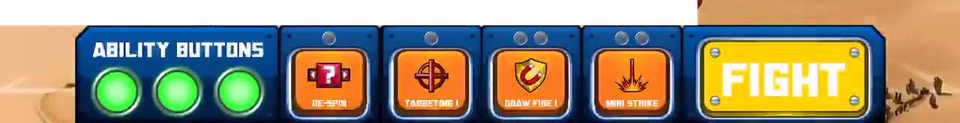
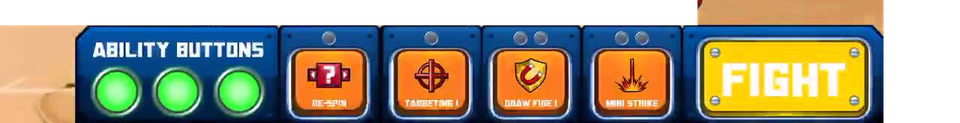
feat: bind the real gold button - rexButton on the extracted sprite
- extract fight_button.png (76x132) from the authentic screenshot by warm-gold
  color classification; matching transparent hole punched in the bottom band
- wire phaser3-rex-plugins (1.80.20) rexButton behavior: pixel-true hit area
  on the actual art, click debounce, press feedback (scale 0.95 on down)
- replaces the previous invisible rectangle hit-area (top of the baked button
  was not clickable); label/glow overlay states unchanged
- E2E verified with real mouse clicks on the button: roll then fight both fire

Changed region(s): [[0.9062, 0.0, 1.0, 1.0]]

diff --git a/src/ui/scenes/BattleScene.ts b/src/ui/scenes/BattleScene.ts
@@ -1,4 +1,5 @@
 import Phaser from 'phaser';
+import Button from 'phaser3-rex-plugins/plugins/button.js';
 
 import arenaUrl from '../assets/arena.png';
 import { createBattle } from '../../engine/combat/engine';
@@ -48,12 +49,13 @@ const PANEL_TOP = HEIGHT - PANEL_H;
 const TRAY_X0 = 400;
 const TRAY_STEP = 52;
 const TRAY_Y = 485;
-// Real gold action button (baked into the band, x 887..959): label on the
-// upper face, the baked caption stays visible at the bottom.
-const ACTION_X = 923;
-const ACTION_Y = 495;
-const ACTION_BTN_W = 140;
-const ACTION_BTN_H = 64;
+// Real gold action button (extracted standalone from the screenshot,
+// 76x132): the sprite IS the button (rexButton behavior), label on the
+// upper face, baked caption stays visible at the bottom.
+const ACTION_X = 921;
+const ACTION_Y = 472;
+const ACTION_GLOW_W = 92;
+const ACTION_GLOW_H = 140;
 
 type ActionState = 'roll' | 'fight' | 'restart' | 'hidden';
 
@@ -69,10 +71,8 @@ export class BattleScene extends Phaser.Scene {
   private faces!: Record<Side, readonly DieFace[]>;
   private roundText!: Phaser.GameObjects.Text;
   private statusText!: Phaser.GameObjects.Text;
-  private actionButton!: Phaser.GameObjects.Container;
   private actionLabel!: Phaser.GameObjects.Text;
-  private actionState: ActionState = 'hidden';
-  private pulseTween: Phaser.Tweens.Tween | null = null;
+  private actionState: ActionState = 'hidden';  private pulseTween: Phaser.Tweens.Tween | null = null;
   private busy = false;
   /** Armor absorbed by a side this hit; shown when the shell actually lands. */
   private pendingAbsorb: Partial<Record<Side, number>> = {};
@@ -80,6 +80,9 @@ export class BattleScene extends Phaser.Scene {
   private trayBadges!: Record<Side, Phaser.GameObjects.Image>;
   private trayTexts!: Record<Side, Phaser.GameObjects.Text>;
   private actionGlow!: Phaser.GameObjects.Graphics;
+  /** The real gold button sprite + its rexButton click behavior. */
+  private actionImage!: Phaser.GameObjects.Image;
+  private actionBtn!: Button;
 
   constructor() {
     super('battle');
@@ -245,26 +248,32 @@ export class BattleScene extends Phaser.Scene {
       enemy: this.trayText('enemy'),
     };
 
-    // Morphing action control ON the real gold button (baked in the band):
-    // label on the upper face for ROLL/RESTART, pulsing glow for FIGHT.
-    this.actionGlow = this.add.graphics();
+    // The real gold button as an interactive sprite bound by rexButton
+    // (phaser3-rex-plugins): pixel-true hit area on the actual art.
+    this.actionImage = this.add.image(ACTION_X, ACTION_Y, HUD_KEYS.fightButton).setDepth(10);
+    this.actionImage.setInteractive({ useHandCursor: true });
+    this.actionBtn = new Button(this.actionImage, { clickInterval: 250 });
+    this.actionBtn.on('click', () => this.onActionClick());
+    // Press feedback on the sprite (rexButton owns the click semantics).
+    this.actionImage.on('pointerdown', () => this.actionImage.setScale(0.95));
+    const release = (): void => {
+      this.actionImage.setScale(1);
+    };
+    this.actionImage.on('pointerup', release);
+    this.actionImage.on('pointerout', release);
+
+    // Control state overlaid on the button: label on the upper face for
+    // ROLL/RESTART, pulsing glow ring for FIGHT.
+    this.actionGlow = this.add.graphics().setDepth(11);
     this.actionLabel = this.add
-      .text(0, -14, '', {
+      .text(ACTION_X, ACTION_Y - 42, '', {
         fontFamily: FONT,
-        fontSize: '17px',
+        fontSize: '15px',
         color: '#3a2a00',
         fontStyle: 'bold',
       })
-      .setOrigin(0.5);
-    this.actionButton = this.add.container(ACTION_X, ACTION_Y, [this.actionGlow, this.actionLabel]);
-    this.actionButton.setDepth(10);
-    const hit = new Phaser.Geom.Rectangle(-ACTION_BTN_W / 2, -ACTION_BTN_H / 2, ACTION_BTN_W, ACTION_BTN_H);
-    this.actionButton.setInteractive(
-      hit,
-      Phaser.Geom.Rectangle.Contains,
-    );
-    this.actionButton.input!.cursor = 'pointer';
-    this.actionButton.on('pointerdown', () => this.onActionClick());
+      .setOrigin(0.5)
+      .setDepth(12);
   }
 
   private trayText(side: Side): Phaser.GameObjects.Text {
@@ -856,7 +865,7 @@ export class BattleScene extends Phaser.Scene {
     this.actionState = next;
     this.pulseTween?.stop();
     this.pulseTween = null;
-    this.actionButton.setVisible(next !== 'hidden');
+    this.actionImage.setAlpha(next === 'hidden' ? 0.55 : 1);
     this.actionGlow.clear().setAlpha(1);
     this.actionLabel.setText('');
 
@@ -865,14 +874,14 @@ export class BattleScene extends Phaser.Scene {
         this.actionLabel.setText('ROLL').setColor('#3a2a00');
         break;
       case 'fight':
-        // Glow ring over the real button; no label (baked caption below).
+        // Glow ring around the real button; no label (baked caption below).
         this.actionGlow.lineStyle(3, 0xfff3c0, 0.95);
         this.actionGlow.strokeRoundedRect(
-          -ACTION_BTN_W / 2,
-          -ACTION_BTN_H / 2,
-          ACTION_BTN_W,
-          ACTION_BTN_H,
-          16,
+          ACTION_X - ACTION_GLOW_W / 2,
+          ACTION_Y - ACTION_GLOW_H / 2,
+          ACTION_GLOW_W,
+          ACTION_GLOW_H,
+          18,
         );
         this.pulseTween = this.tweens.add({
           targets: this.actionGlow,

diff --git a/src/ui/hudAssets.ts b/src/ui/hudAssets.ts
@@ -23,6 +23,7 @@ import apBeamUrl from './assets/hud/ionstrikerevised/4.png';
 import titleArtUrl from './assets/hud/titlescreen/0.png';
 import refTopUrl from './assets/hud/ref/top.png';
 import refBottomUrl from './assets/hud/ref/bottom.png';
+import fightButtonUrl from './assets/hud/ref/fight_button.png';
 
 import { DIE_FACE_TYPE } from '../engine/types';
 import type { DieFaceType } from '../engine/types';
@@ -60,6 +61,8 @@ export const HUD_KEYS = {
   /** Real HUD bands cropped from the authentic gameplay screenshot. */
   refTop: 'hud-ref-top',
   refBottom: 'hud-ref-bottom',
+  /** The gold action button extracted standalone (interactive sprite). */
+  fightButton: 'hud-ref-fight-button',
 } as const;
 
 /** Texture key for a die-face badge background (null = vector fallback). */
@@ -105,4 +108,5 @@ export function loadHudTextures(scene: Phaser.Scene): void {
   scene.load.image(HUD_KEYS.titleArt, titleArtUrl);
   scene.load.image(HUD_KEYS.refTop, refTopUrl);
   scene.load.image(HUD_KEYS.refBottom, refBottomUrl);
+  scene.load.image(HUD_KEYS.fightButton, fightButtonUrl);
 }

diff --git a/tools/crop_ref_hud.py b/tools/crop_ref_hud.py
@@ -29,6 +29,14 @@ SCALE = 0.75
 TOP_BAND = (0, 0, 1280, 28)
 PANEL_LEFT = (0, 589, 930, 720)    # panel-only zone (nothing above y589)
 PANEL_RIGHT = (930, 555, 1280, 720)  # raised chrome: gold strips + button
+# The gold action button (a tall warm-gold slab, y ~545..719, x ~1183..1280).
+BUTTON_REGION = (1178, 543, 1282, 720)
+
+
+def is_gold(r: int, g: int, b: int) -> bool:
+    """Warm gold-family pixel (covers the slab, its shading and baked text;
+    excludes the navy panel and the green/tan battlefield)."""
+    return r > 110 and r > b + 40 and g > r * 0.45 and g < r * 1.05
 
 
 def crop_scaled(box: tuple[int, int, int, int]) -> Image.Image:
@@ -49,9 +57,37 @@ def main() -> None:
     ref = Image.open(SRC).convert("RGB")
     stitched.paste(ref.crop(PANEL_LEFT), (0, 34))
     stitched.paste(ref.crop(PANEL_RIGHT), (930, 0))
+    # Punch out the action-button slab: it ships as its own interactive
+    # sprite (fight_button.png), so the band must not double-paint it.
+    # Stitched-x maps 1:1 to source-x; stitched-y = source-y - 555 (the
+    # PANEL_RIGHT paste origin).
+    local = (
+        BUTTON_REGION[0],
+        max(BUTTON_REGION[1] - 555, 0),
+        BUTTON_REGION[2],
+        BUTTON_REGION[3] - 555,
+    )
+    stitched.paste((0, 0, 0, 0), (local[0], local[1], local[2], local[3]))
     stitched = stitched.resize((int(1280 * SCALE), int(165 * SCALE)), Image.LANCZOS)
     stitched.save(OUT / "bottom.png")
-    print(f"wrote {OUT/'top.png'} and {OUT/'bottom.png'}")
+
+    # The gold action button as a standalone alpha sprite: keep warm-gold
+    # pixels, drop navy panel / green battlefield, trim to content bbox.
+    region = ref.crop(BUTTON_REGION)
+    rgba = region.convert("RGBA")
+    out = Image.new("RGBA", rgba.size, (0, 0, 0, 0))
+    sp, op = rgba.load(), out.load()
+    for y in range(rgba.height):
+        for x in range(rgba.width):
+            r, g, b, _ = sp[x, y]
+            if is_gold(r, g, b):
+                op[x, y] = (r, g, b, 255)
+    bbox = out.getbbox()
+    if bbox:
+        out = out.crop(bbox)
+    out = out.resize((int(out.width * SCALE), int(out.height * SCALE)), Image.LANCZOS)
+    out.save(OUT / "fight_button.png")
+    print(f"wrote top.png, bottom.png, fight_button.png {out.size} into {OUT}")
 
 
 if __name__ == "__main__":

diff --git a/docs/HUD_ASSETS.md b/docs/HUD_ASSETS.md
@@ -81,3 +81,18 @@ glow only, no duplicate label.
 
 ArenaSceneSpriteCollection rechecked: 1024x1024 FULLY OPAQUE = background art,
 not a HUD frame (alpha map 100% everywhere). Not usable as an overlay.
+
+## Wave 5 (2026-10-26): the gold button is now a REAL interactive sprite
+
+- `tools/crop_ref_hud.py` also extracts `ref/fight_button.png` (76x132): the
+  warm-gold slab pulled out of the screenshot by color classification
+  (`is_gold()`: r>b+40 family keeps slab + baked caption, drops navy panel and
+  green field), trimmed to bbox; the bottom band gets a matching transparent
+  hole so the sprite replaces the baked pixels 1:1.
+- Click behavior via [rexButton](https://rexrainbow.github.io/phaser3-rex-notes/docs/site/button)
+  from [phaser3-rex-plugins](https://www.jsdelivr.com/package/npm/phaser3-rex-plugins)
+  1.80.20 (npm; ships its own .d.ts): pixel-true hit area on the actual art,
+  clickInterval 250ms, press feedback = sprite scale 0.95 on pointerdown.
+- E2E proof (IAB, real CUA clicks on the button): click 1 -> "Round 1: player
+  rolled DMG 4, enemy rolled DMG 10", click 2 -> "Initiative: player strikes
+  first." Keyboard SPACE / R unchanged.
